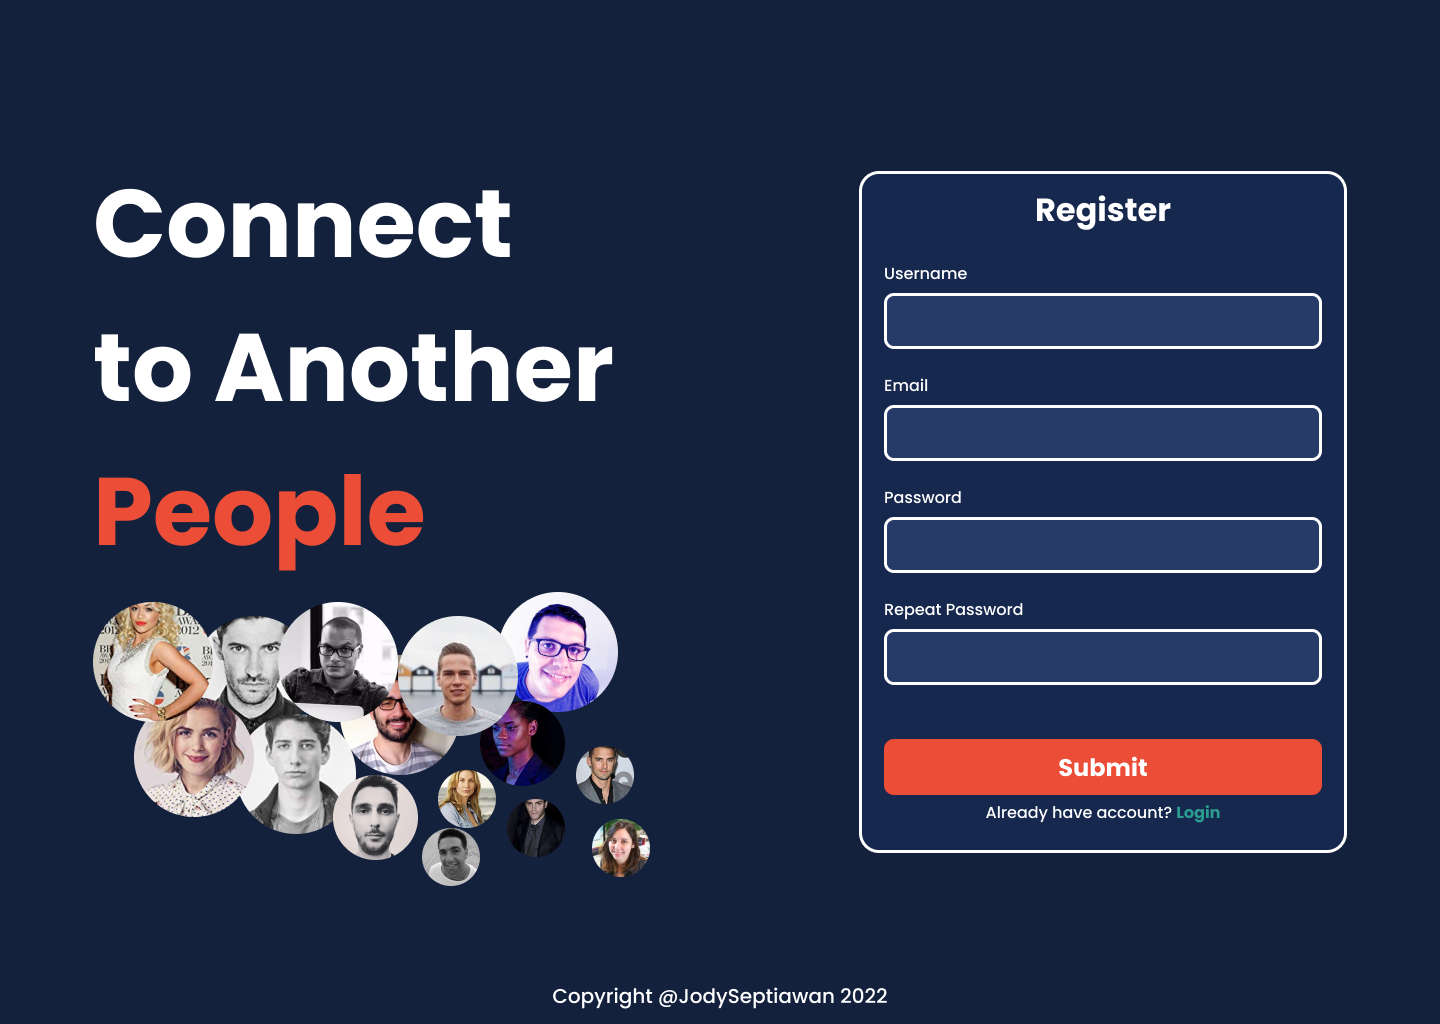
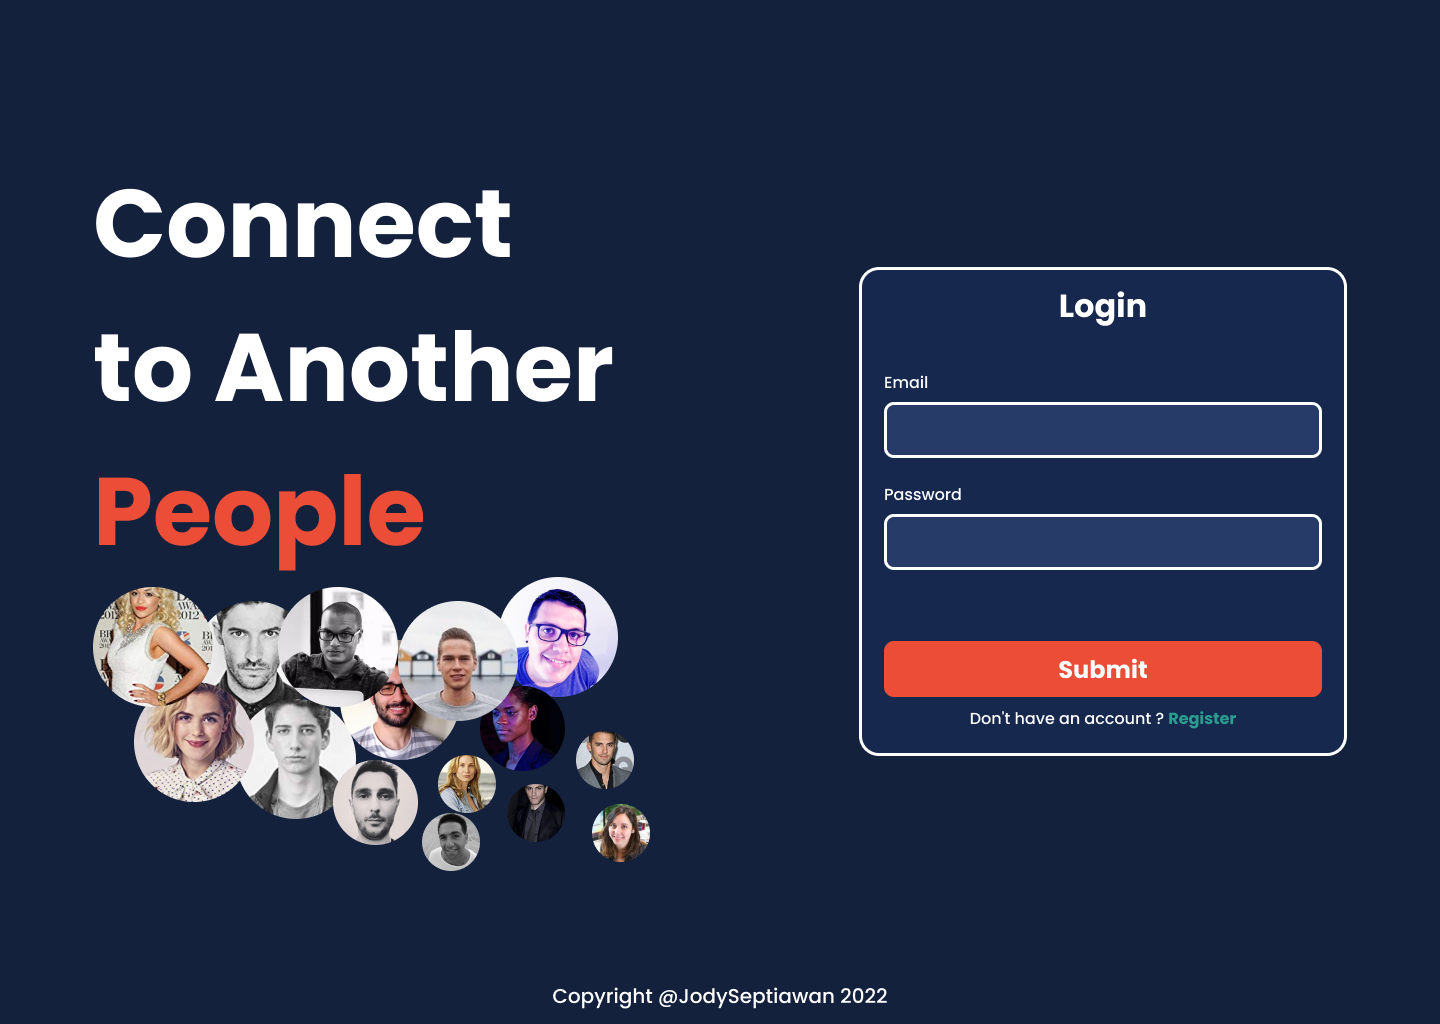
Creating login component and switch

diff --git a/pages/index.js b/pages/index.js
@@ -1,6 +1,11 @@
+import { useState } from 'react';
+
 import Register from '../components/auth/Register';
+import Login from '../components/auth/Login';
 
 export default function Auth() {
+  const [isRegister, setIsRegister] = useState(false);
+
   return (
     <div className="bg-navy flex flex-col">
       <div
@@ -9,17 +14,27 @@ export default function Auth() {
       >
         <div className="left flex items-center">
           <div>
-            <div className="text-8xl	text-white font-bold mb-5">
+            <div
+              className="text-8xl	text-white font-bold mb-5"
+              data-aos="zoom-in"
+            >
               Connect <br /> to Another <br />
               <span className="text-orange">People</span>
             </div>
-            <img src="/image-1.png" alt="image-1" />
+            <img
+              src="/image-1.png"
+              alt="image-1"
+              data-aos="fade-up"
+              data-aos-duration="3000"
+            />
           </div>
         </div>
         <div className="right flex items-center justify-center">
-          <div className="card p-5 border-4 w-10/12	  rounded-2xl">
-            <Register />
-          </div>
+          {isRegister == true ? (
+            <Register setIsRegister={setIsRegister} />
+          ) : (
+            <Login setIsRegister={setIsRegister} />
+          )}
         </div>
       </div>
       <div

diff --git a/components/auth/Login.js b/components/auth/Login.js
@@ -1,26 +1,27 @@
 import InputAuth from './InputAuth';
 
-export default function Register({ setIsRegister }) {
+export default function Login({ setIsRegister }) {
   return (
-    <div data-aos="flip-left" className="card p-5 border-4 w-9/12	  rounded-2xl">
+    <div
+      data-aos="flip-right"
+      className="card p-5 border-4 w-9/12	  rounded-2xl"
+    >
       <div className="title text-center text-white text-3xl font-bold mb-10">
-        Register
+        Login
       </div>
-      <InputAuth title="Username" />
       <InputAuth title="Email" />
       <InputAuth title="Password" />
-      <InputAuth title="Repeat Password" />
       <div className="mt-14">
         <button className="bg-orange p-2 rounded w-full text-white font-bold hover:bg-orange-500">
           Submit
         </button>
         <div className="text-center text-white mt-2">
-          Already have account?
+          Don't have an account ?
           <span
-            onClick={() => setIsRegister(false)}
+            onClick={() => setIsRegister(true)}
             className="font-bold text-green cursor-pointer ml-2 hover:text-green-500"
           >
-            Login
+            Register
           </span>
         </div>
       </div>

diff --git a/pages/_app.js b/pages/_app.js
@@ -1,7 +1,14 @@
-import '../styles/globals.css'
+import AOS from 'aos';
+import { useEffect } from 'react';
+
+import '../styles/globals.css';
+import 'aos/dist/aos.css';
 
 function MyApp({ Component, pageProps }) {
-  return <Component {...pageProps} />
+  useEffect(() => {
+    AOS.init({ duration: 800 });
+  }, []);
+  return <Component {...pageProps} />;
 }
 
-export default MyApp
+export default MyApp;

diff --git a/README.md b/README.md
@@ -1,7 +1,7 @@
-# Creating Register Page
+# Creating login component and switch
 
 ![image-1](./for-readme-1.png)
 
 Mockup: [Link](https://www.figma.com/file/7fUBmF9D9JZ7tcOg4DFmJ8/Chat-App-with-KontenBase?node-id=2%3A2)
 
-Pada tahap ini cara membuat tampilan Register seperti pada MockUp diatas, menggunakan [NextJs](https://nextjs.org/) dan [TailwindCss](https://tailwindcss.com/).
+Pada tahap ini cara membuat tampilan Login seperti pada MockUp diatas dan menambahkan fungsional switch antara component register dan login.
